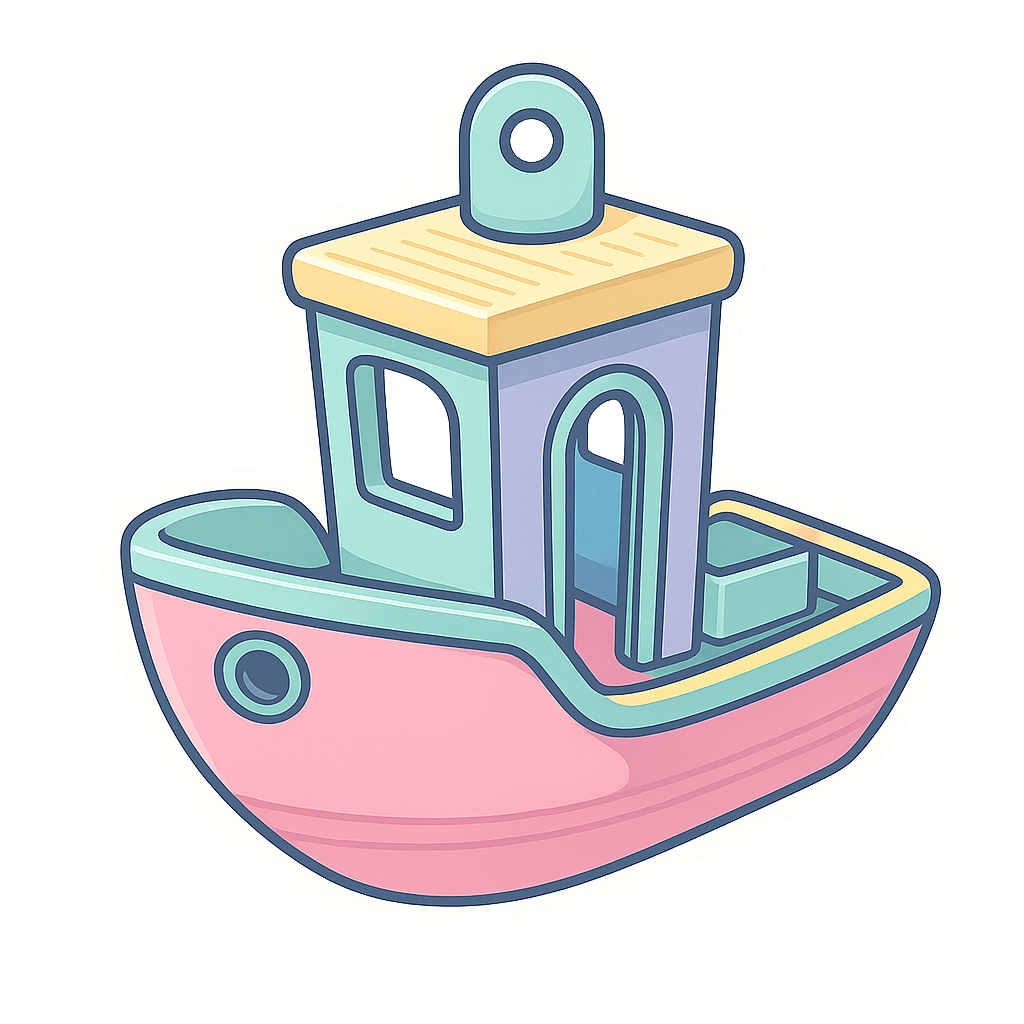
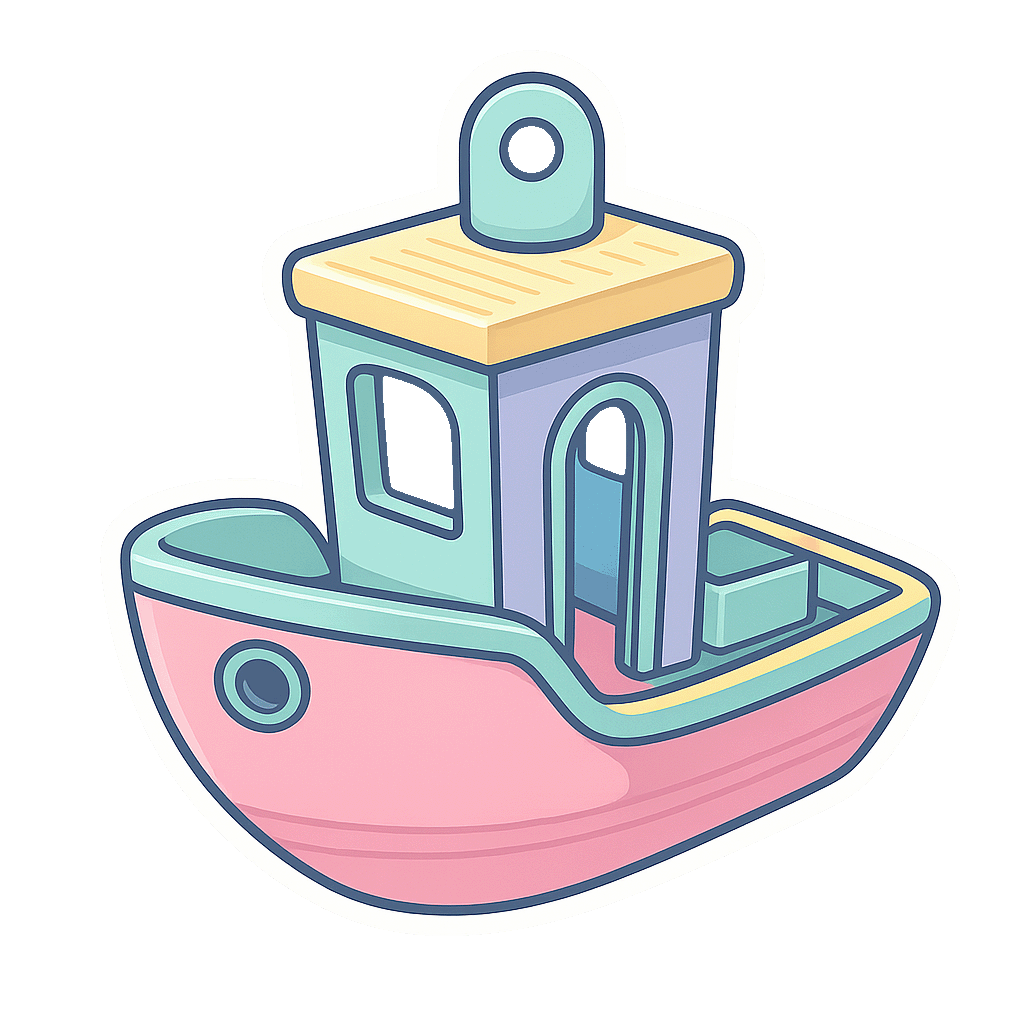
Add benchy.png asset and set as default image source for improved visual context

Changed region(s): [[0.125, 0.1875, 0.9375, 0.9062], [0.4375, 0.0625, 0.5938, 0.1875]]

diff --git a/src/App.tsx b/src/App.tsx
@@ -1,5 +1,6 @@
 import React, { useEffect, useRef, useState } from "react";
 import "./App.css";
+import benchy from "./assets/benchy.png";
 import CanvasPreview from "./components/CanvasPreview";
 import type { CanvasPreviewHandle } from "./components/CanvasPreview";
 import UploaderControls from "./components/UploaderControls";
@@ -13,7 +14,7 @@ import {
 import { PALETTES } from "./data/palettes";
 
 function App(): React.ReactElement | null {
-    const [imageSrc, setImageSrc] = useState<string | null>(null);
+    const [imageSrc, setImageSrc] = useState<string | null>(benchy);
     const [past, setPast] = useState<string[]>([]);
     const [future, setFuture] = useState<string[]>([]);
     const [dragOver, setDragOver] = useState(false);
